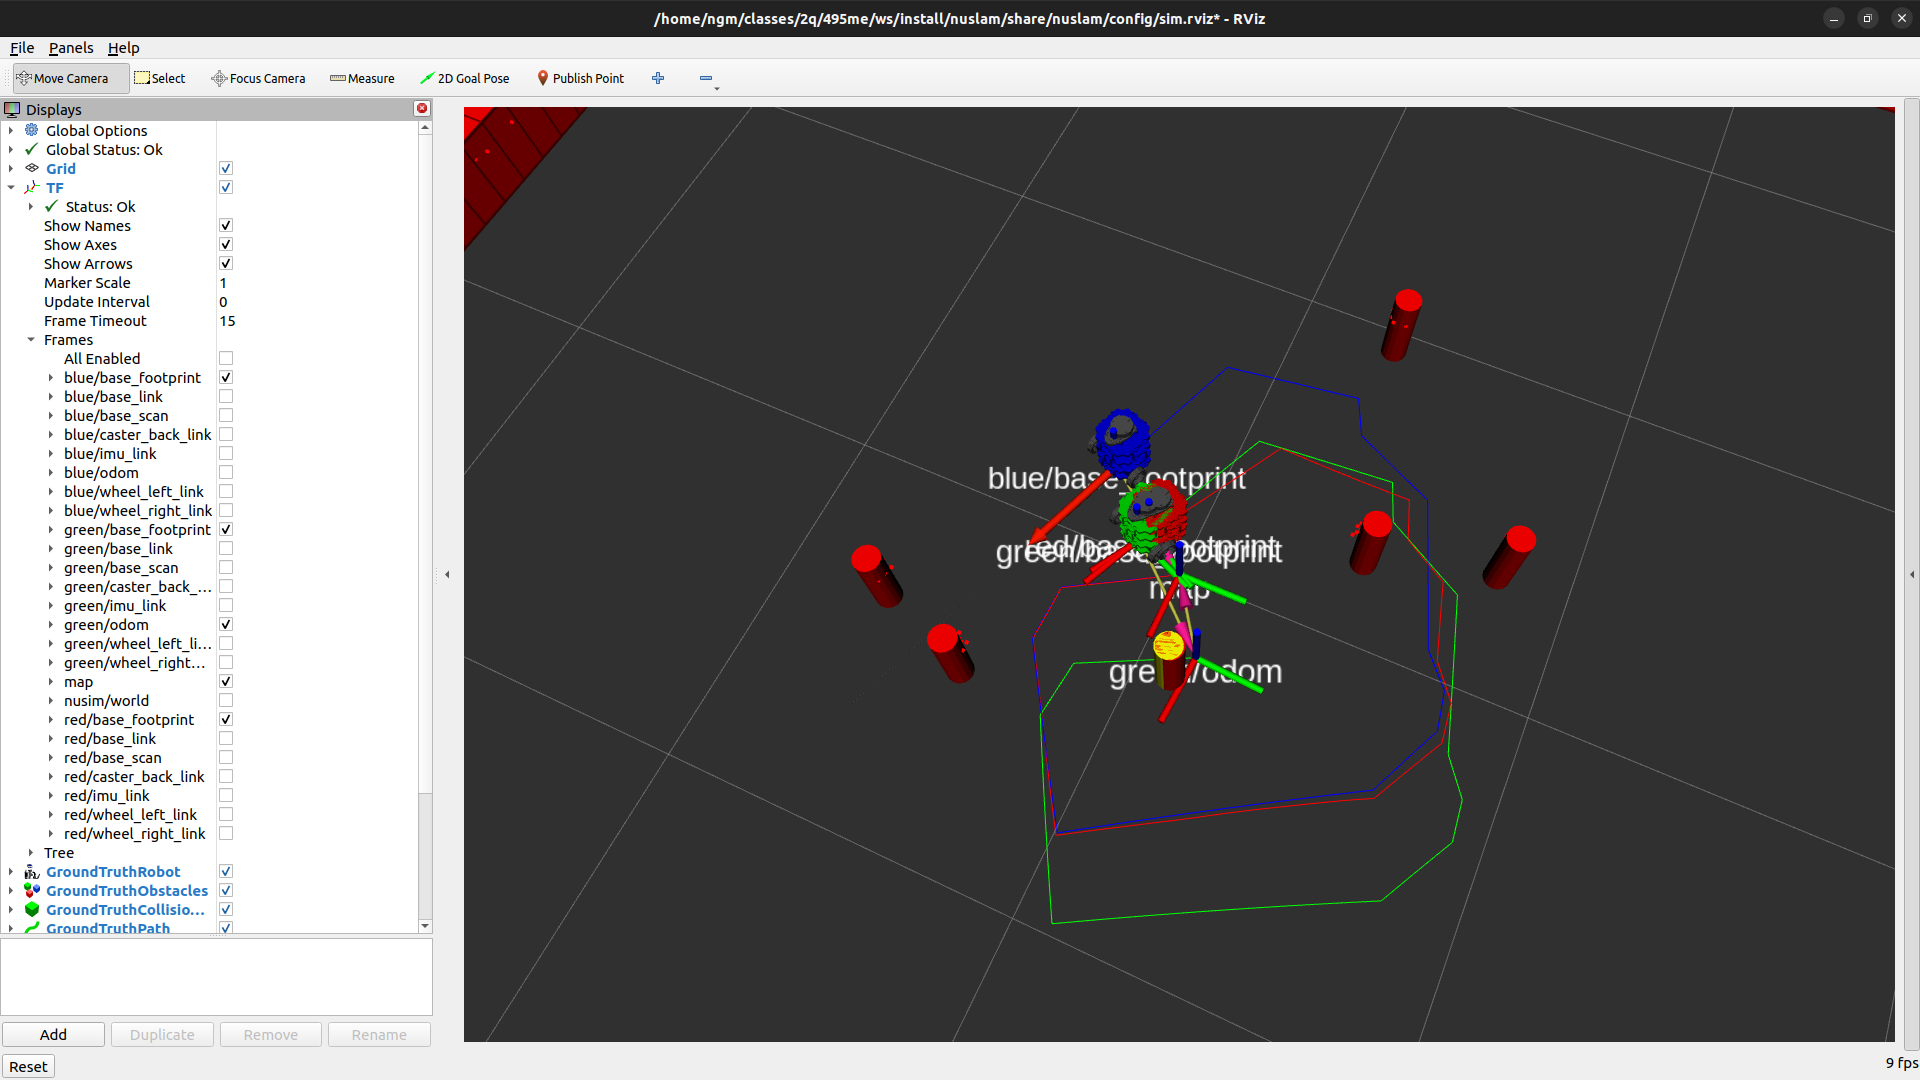
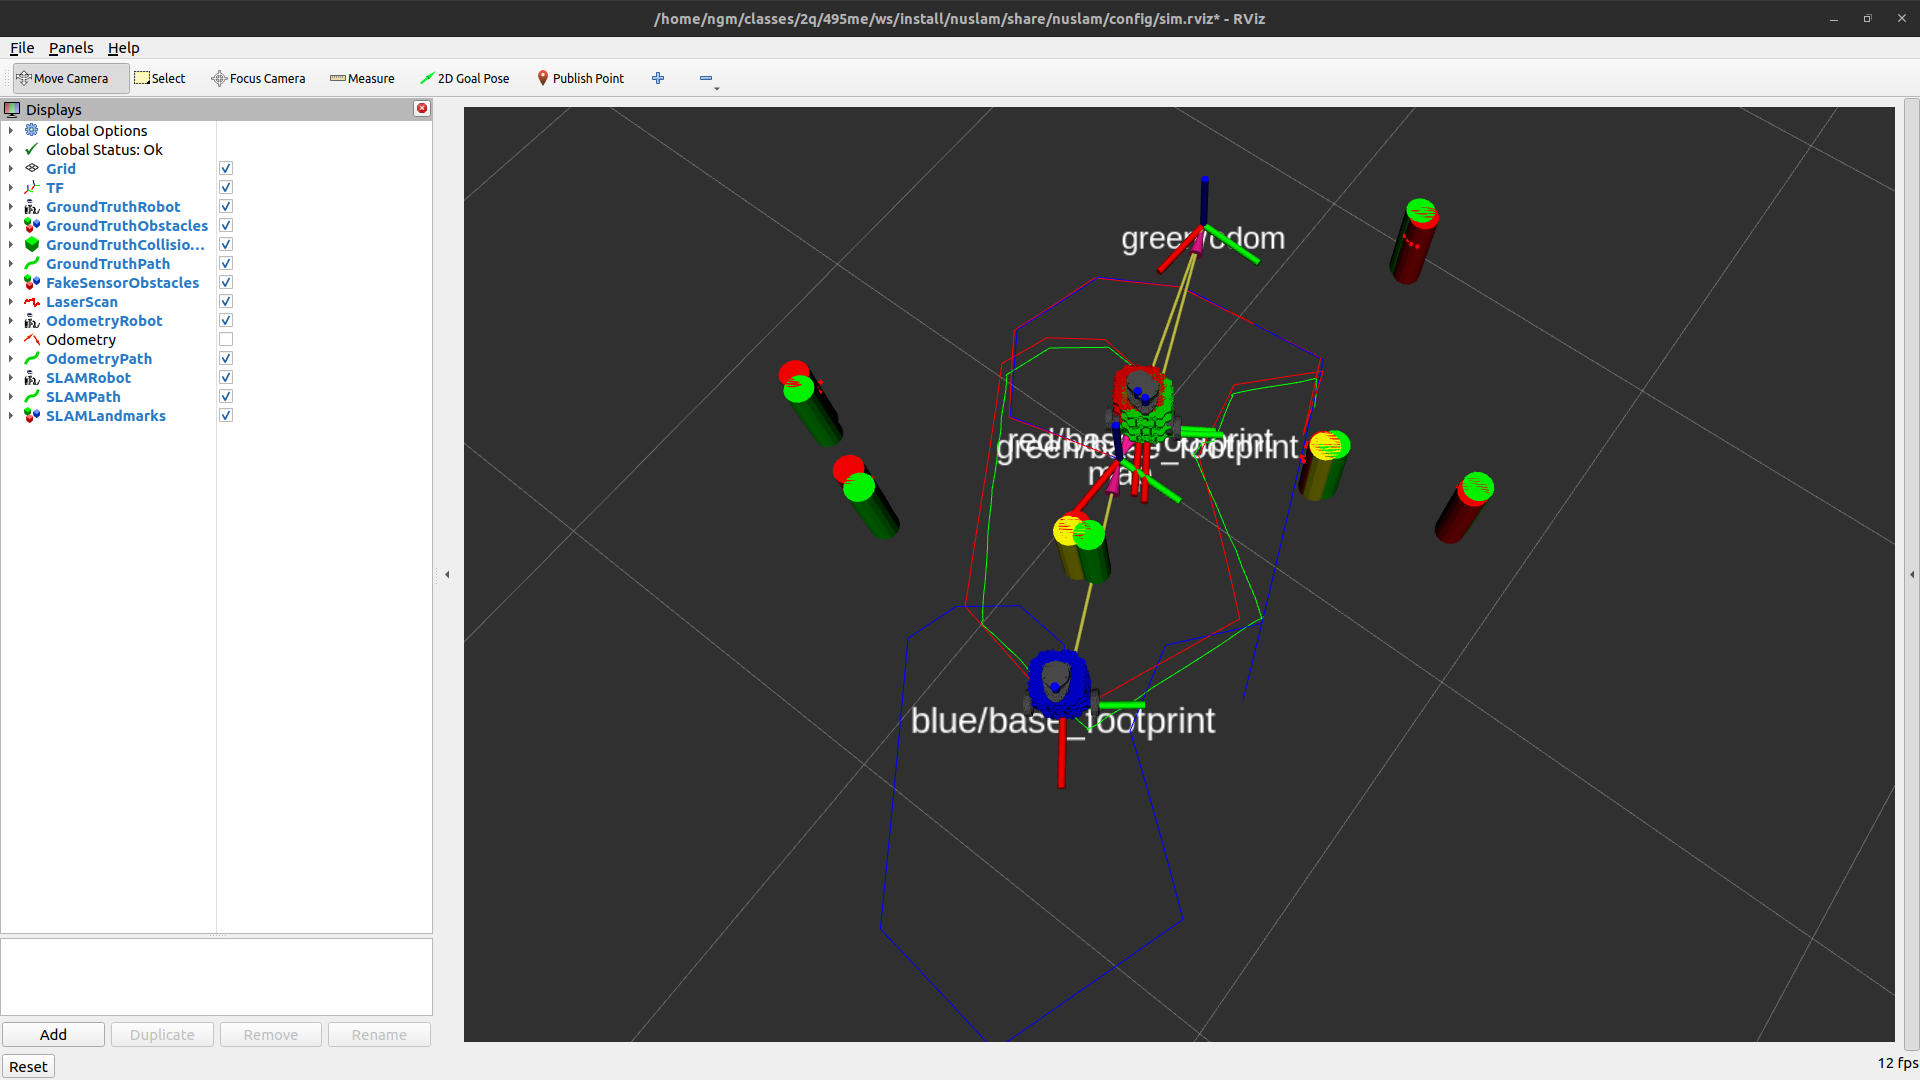
Updated SLAM path to listen to SLAM state rather than SLAM odometry

diff --git a/nuslam/src/nuslam.cpp b/nuslam/src/nuslam.cpp
@@ -110,10 +110,6 @@ public:
       required_parameters_received = false;
     }
 
-    param.description = "The rate the path is updated at (Hz).";
-    declare_parameter("path.rate", 5.0, param);
-    auto path_interval = 1.0 / get_parameter("path.rate").get_parameter_value().get<double>();
-
     param.description = 
       "Number of path points retained before deleting. Set to 0 to disable limit.";
     declare_parameter("path.num_points", 100, param);
@@ -144,12 +140,6 @@ public:
         "Required parameters were not received or were invalid. Please provide valid parameters."
       );
     }
-
-    //Timers
-    timer_path_ = create_wall_timer(
-      static_cast<std::chrono::milliseconds>(static_cast<int>(path_interval * 1000.0)),
-      std::bind(&NuSlam::timer_path_callback, this)
-    );
 
     //Publishers
     pub_odom_ = create_publisher<nav_msgs::msg::Odometry>("odom", 10);
@@ -191,11 +181,6 @@ public:
 
     //Init config pose message and path message
     config_pose_msg_.header.frame_id = odom_id_;
-    path_.header.frame_id = odom_id_;
-    
-    config_pose_msg_.pose = tf_to_pose_msg(turtlebot_.config().location);
-    config_pose_msg_.header.stamp = get_clock()->now();
-    path_.poses.push_back(config_pose_msg_);
 
     //SLAM
     slam_last_odom_location_ = turtlebot_.config().location;
@@ -234,10 +219,16 @@ public:
     default_landmark_.color.b = 0.0;
     default_landmark_.color.a = 1.0;
 
+    //Path from SLAM
+    path_.header.frame_id = MAP_FRAME;
+    
+    config_pose_msg_.pose = tf_to_pose_msg(turtlebot_.config().location);
+    config_pose_msg_.header.stamp = get_clock()->now();
+    path_.poses.push_back(config_pose_msg_);
+
     RCLCPP_INFO_STREAM(get_logger(), "nuslam node started");
   }
 private:
-  rclcpp::TimerBase::SharedPtr timer_path_;
   rclcpp::Publisher<nav_msgs::msg::Odometry>::SharedPtr pub_odom_;
   rclcpp::Publisher<nav_msgs::msg::Path>::SharedPtr pub_path_;
   rclcpp::Publisher<visualization_msgs::msg::MarkerArray>::SharedPtr pub_estimated_landmarks_;
@@ -259,33 +250,6 @@ private:
   mat slam_sensor_noise_ {2*MAX_LANDMARKS, 2*MAX_LANDMARKS, zeros}; //R
   std::vector<bool> slam_landmark_seen_ = std::vector<bool>(MAX_LANDMARKS, false);
   visualization_msgs::msg::Marker default_landmark_;
-
-  /// \brief publish odometry estimate path
-  void timer_path_callback() {
-    static Transform2D last_published_tf = turtlebot_.config().location;
-
-    //Only add a new pose to the path if the turtlebot has moved
-    if (!almost_equal(last_published_tf, turtlebot_.config().location)) {
-      
-      config_pose_msg_.pose = odom_msg_.pose.pose;
-      config_pose_msg_.header.stamp = odom_msg_.header.stamp;
-      
-      //Remove oldest element if we've reached the max number of path points
-      if (path_num_points_ != 0 && path_.poses.size() >= path_num_points_) {
-        path_.poses.erase(path_.poses.begin());
-      }
-      
-      path_.poses.push_back(config_pose_msg_);
-
-      last_published_tf = turtlebot_.config().location;
-    }
-
-    //Update stamp
-    path_.header.stamp = get_clock()->now();
-
-    //Publish path
-    pub_path_->publish(path_);
-  }
 
   /// \brief update internal odometry from received joint states
   /// \param msg - joint states
@@ -443,22 +407,41 @@ private:
       //Update the covariance prediction
       covariance_prediction = (I - Ki*Hi)*covariance_prediction;
     }
+
+    auto slam_time = get_clock()->now(); //TODO synchronize?
+
+    //Only add a new pose to the path if the turtlebot has moved
+    if (!(
+      almost_equal(state_prediction(0), slam_last_state_(0)) &&
+      almost_equal(state_prediction(1), slam_last_state_(1)) &&
+      almost_equal(state_prediction(2), slam_last_state_(2))
+    )){
+      
+      config_pose_msg_.pose.position.x = state_prediction_x;
+      config_pose_msg_.pose.position.y = state_prediction_y;
+      tf2::Quaternion q;
+      q.setRPY(0.0, 0.0, state_prediction_theta);
+      config_pose_msg_.pose.orientation = tf2::toMsg(q);
+      config_pose_msg_.header.stamp = slam_time;
+      
+      //Remove oldest element if we've reached the max number of path points
+      if (path_num_points_ != 0 && path_.poses.size() >= path_num_points_) {
+        path_.poses.erase(path_.poses.begin());
+      }
+      
+      path_.poses.push_back(config_pose_msg_);
+    }
+
+    //Update stamp
+    path_.header.stamp = slam_time;
+
+    //Publish path
+    pub_path_->publish(path_);
     
-    //Save last odom config
-    slam_last_odom_location_ = turtlebot_.config().location;
-
-    //Save last state prediction
-    slam_last_state_ = state_prediction;
-
-    //Save last covariance prediction;
-    slam_last_covariance_ = covariance_prediction;
-
     //Determine the map to odometry transformation
     Transform2D Tmr {{state_prediction_x, state_prediction_y}, state_prediction_theta};
 
     auto Tmo = Tmr*turtlebot_.config().location.inv();
-
-    auto slam_time = get_clock()->now(); //TODO synchronize?
 
     //Build transform
     map_odom_tf_.transform = tf_to_tf_msg(Tmo);
@@ -484,6 +467,15 @@ private:
     }
 
     pub_estimated_landmarks_->publish(estimated_landmarks);
+
+    //Save last odom config
+    slam_last_odom_location_ = turtlebot_.config().location;
+
+    //Save last state prediction
+    slam_last_state_ = state_prediction;
+
+    //Save last covariance prediction;
+    slam_last_covariance_ = covariance_prediction;
   }
 };
 
